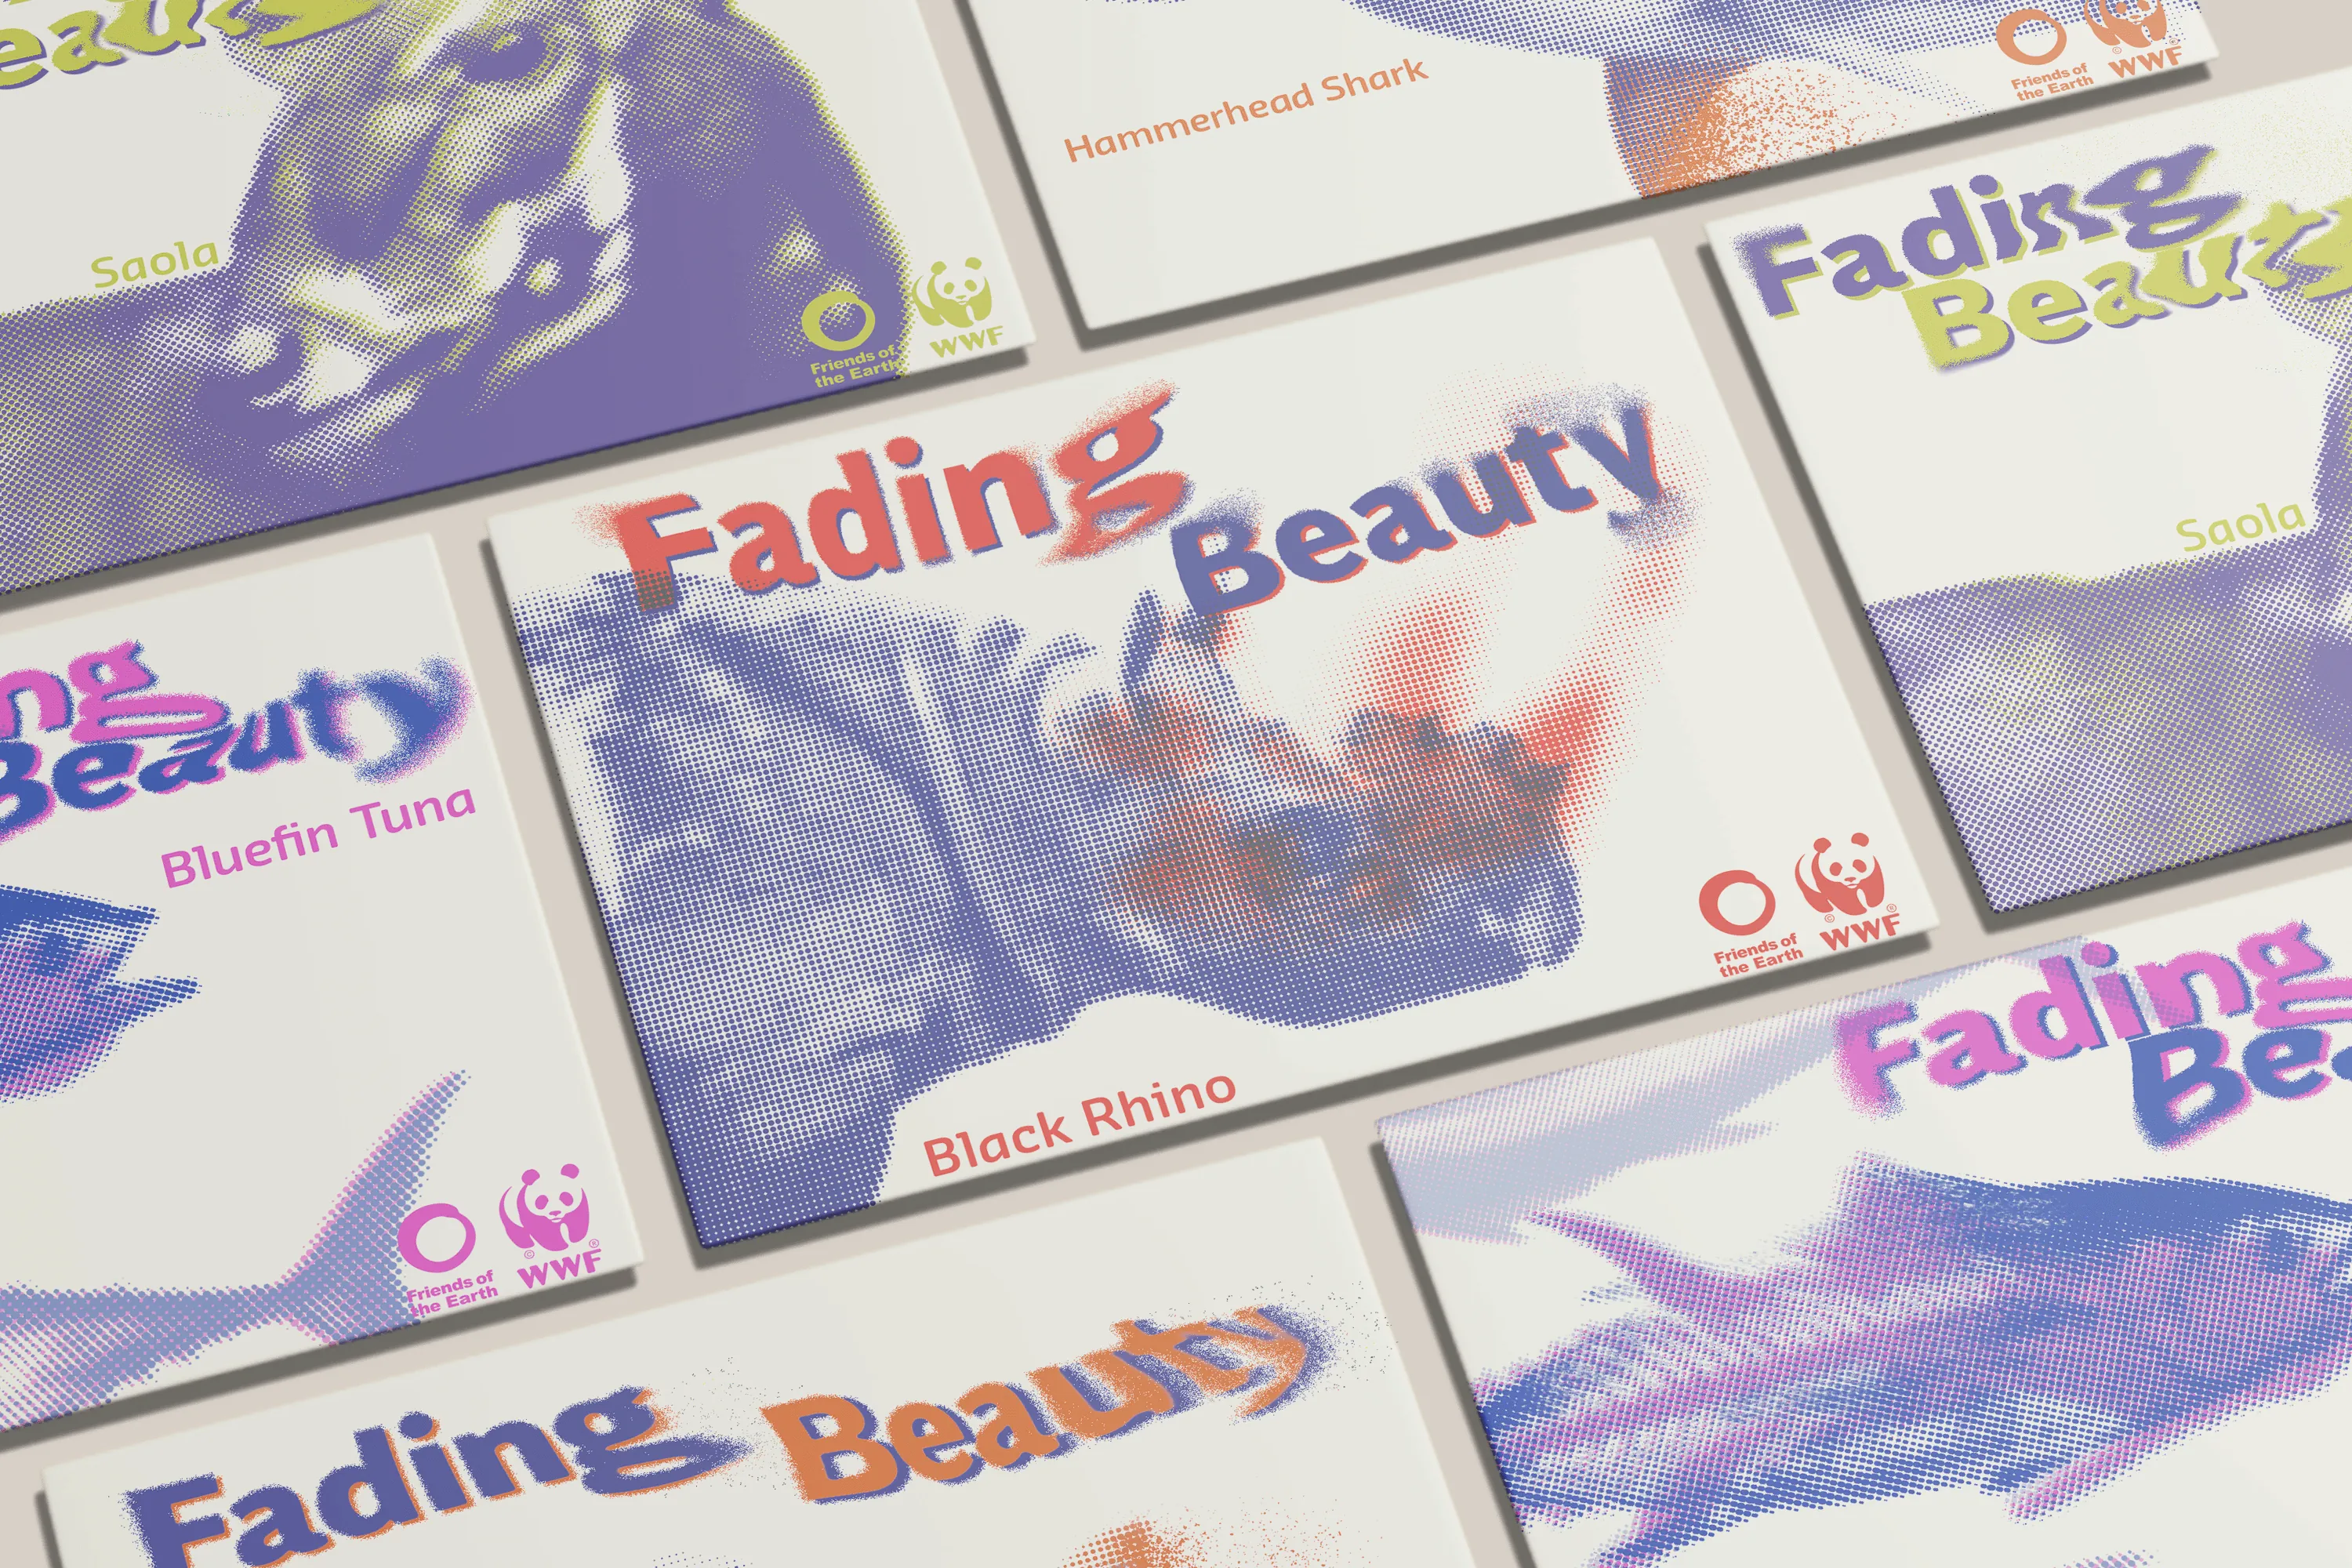
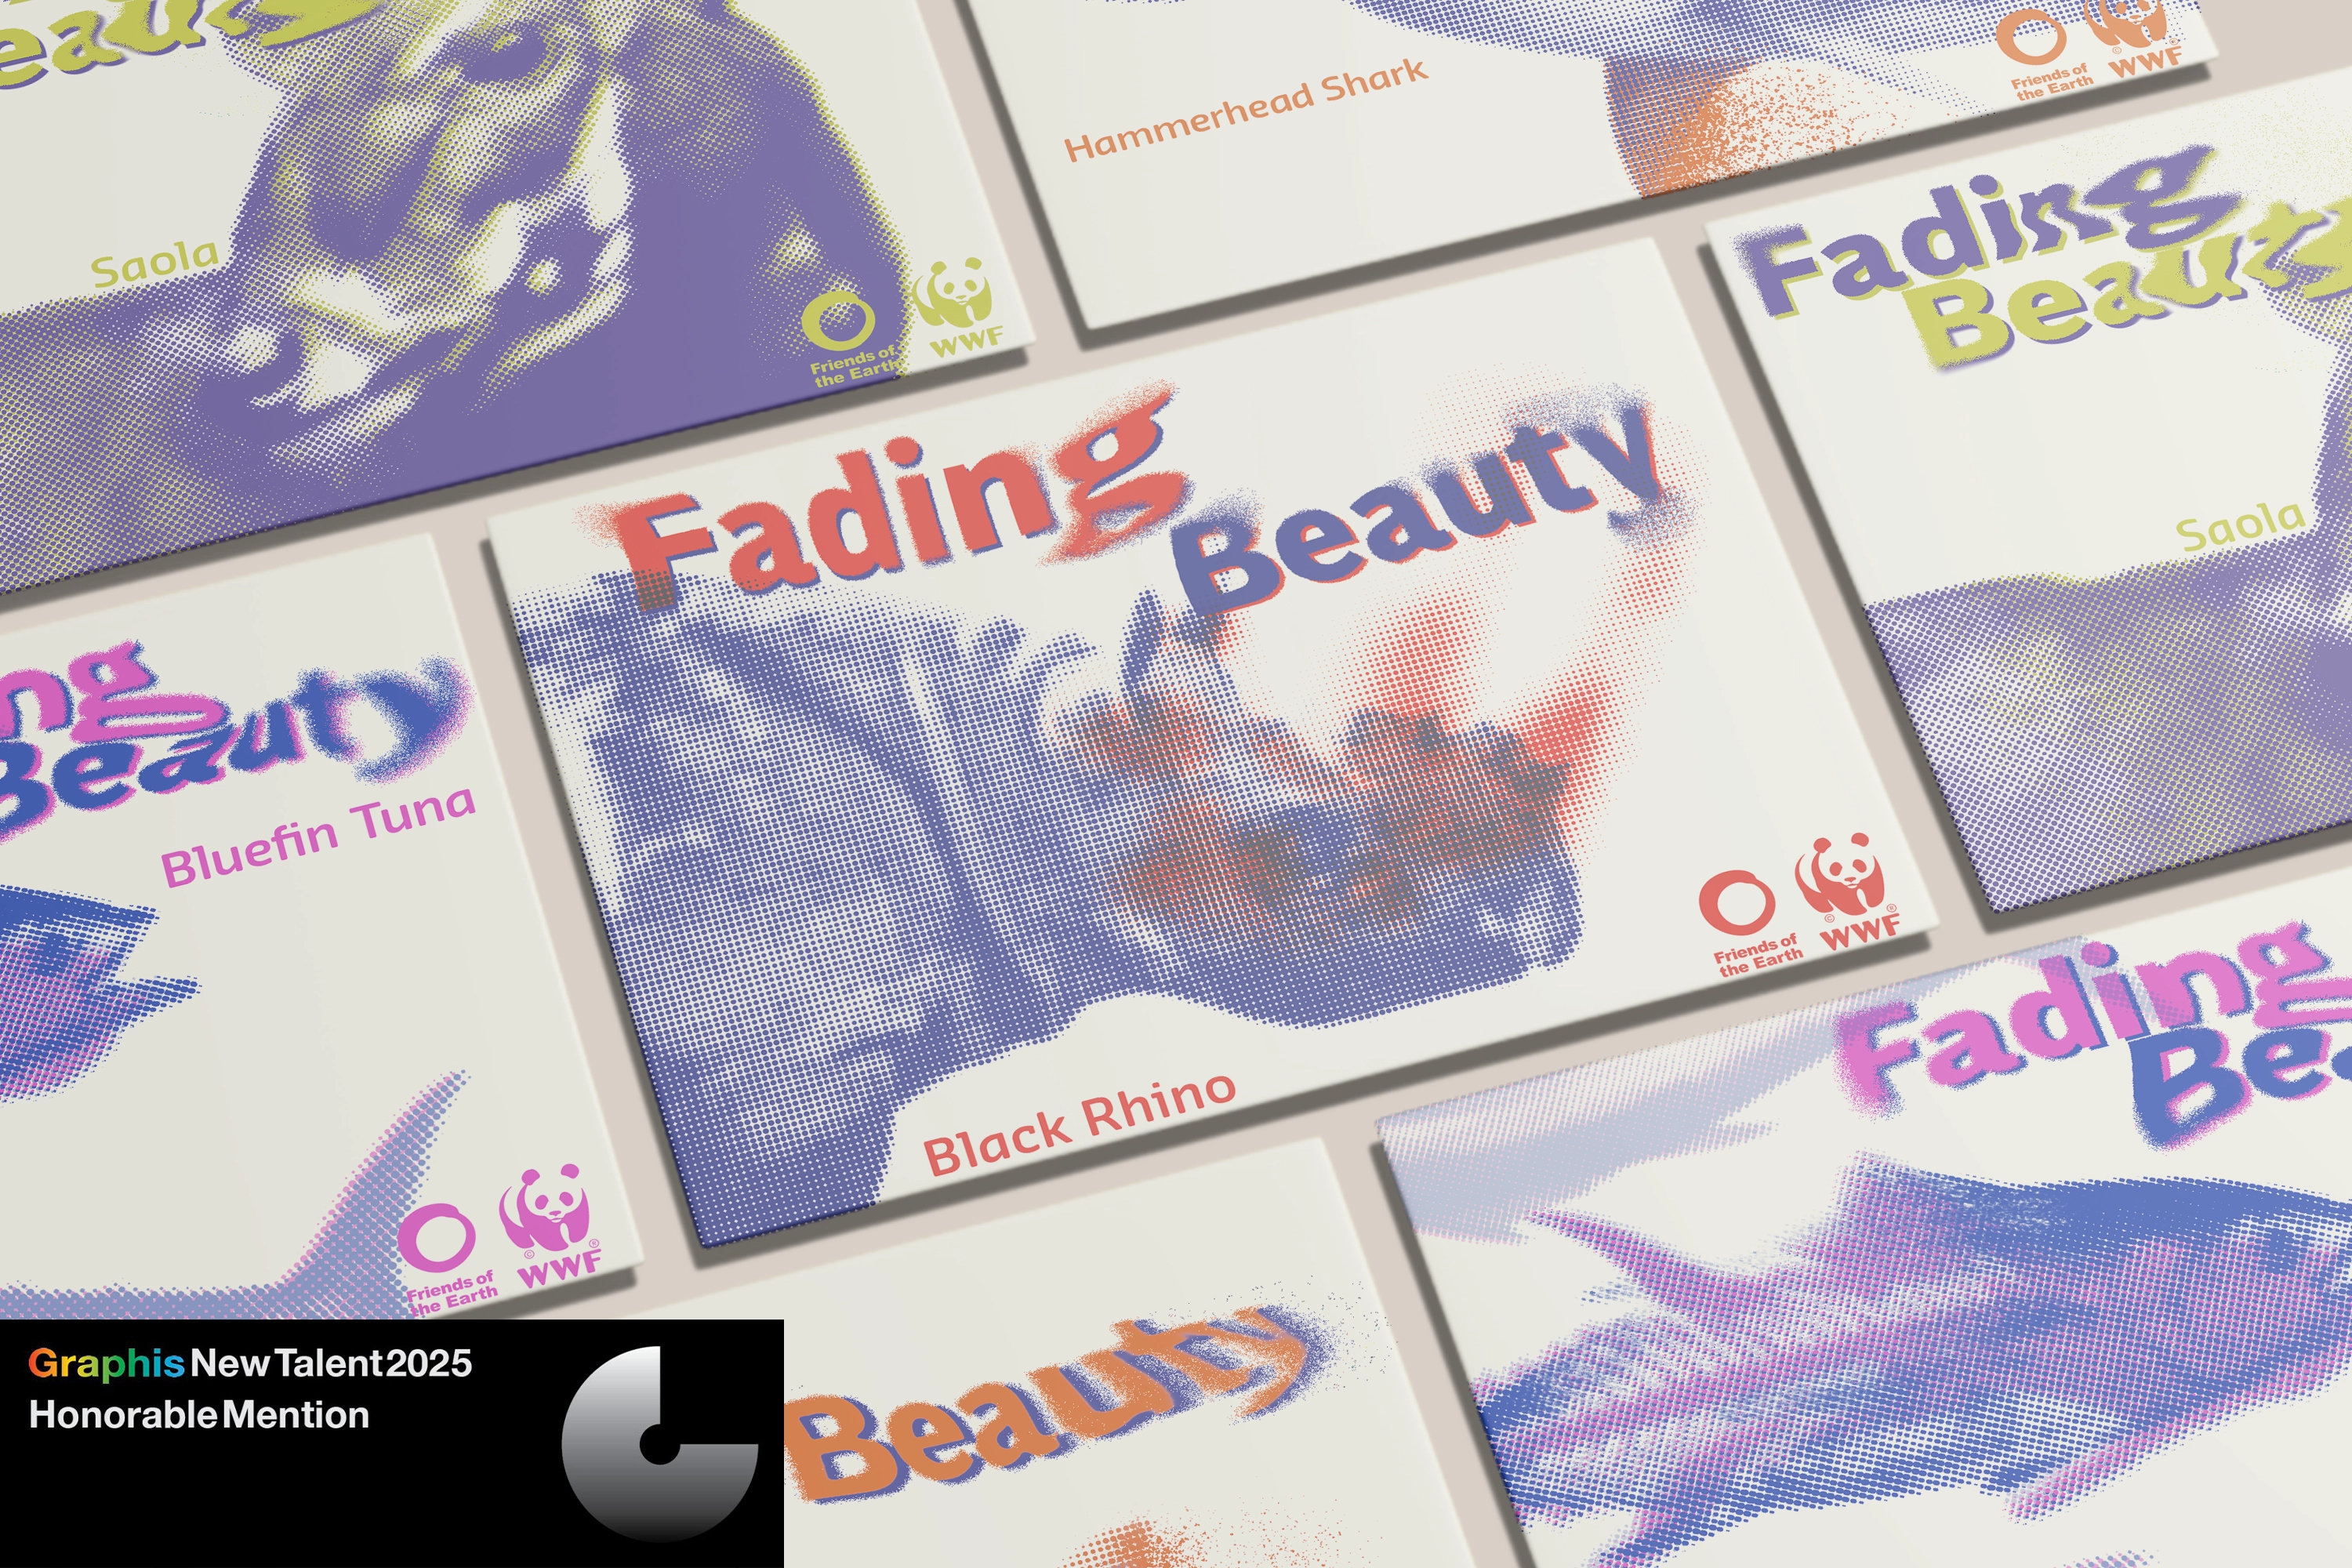
Add Lumiwa project page and update project previews; remove unnecessary subtitles

Changed region(s): [[0.0, 0.837, 0.341, 1.0]]

diff --git a/index.html b/index.html
@@ -47,7 +47,7 @@
         <a class="project-cards" href="./projects/polyu-wayfinding.html"><img src="img/projects/polyu-wayfinding/0002.webp" alt="Project preview 1"></a>
         <a class="project-cards" href="./projects/ngo2deng6.html"><img src="img/projects/ngo2deng6/business-card.webp" alt="Project preview 2"></a>
         <a class="project-cards" href="./projects/evviva.html"><img src="img/projects/evviva/jar-overview.webp" alt="Project preview 3"></a>
-        <a class="project-cards" href="./projects/roblox.html"><img src="https://static.wikia.nocookie.net/roblox/images/3/35/Manface.png" alt="Project preview 4"></a>
+        <a class="project-cards" href="./projects/lumiwa.html"><img src="img/projects/lumiwa/cover.webp" alt="Project preview 4"></a>
         <a class="project-cards" href="./projects/postcards.html"><img src="img/projects/postcards/1_s.webp" alt="Project preview 5"></a>
         <a class="project-cards" href="./projects/roblox.html"><img src="https://static.wikia.nocookie.net/roblox/images/3/35/Manface.png" alt="Project preview 6"></a>
     </section>

diff --git a/projects/evviva.html b/projects/evviva.html
@@ -44,7 +44,6 @@
                 <div class="project-intro">
                     <div class="project-title">
                         <h1>Evviva</h1>
-                        <h2>Pasta Packaging Design</h2>
                     </div>
                     <p class="intro-body">
                         The design brief aims to create a packaging design for a brand. The objective is to create a

diff --git a/projects/ngo2deng6.html b/projects/ngo2deng6.html
@@ -44,7 +44,6 @@
                 <div class="project-intro">
                     <div class="project-title">
                         <h1>ngo2deng6</h1>
-                        <h2>Oden Resturant Branding</h2>
                     </div>
                     <p class="intro-body">
                         The design brief aims to create a visual identity for a local brand that reflects its value. The